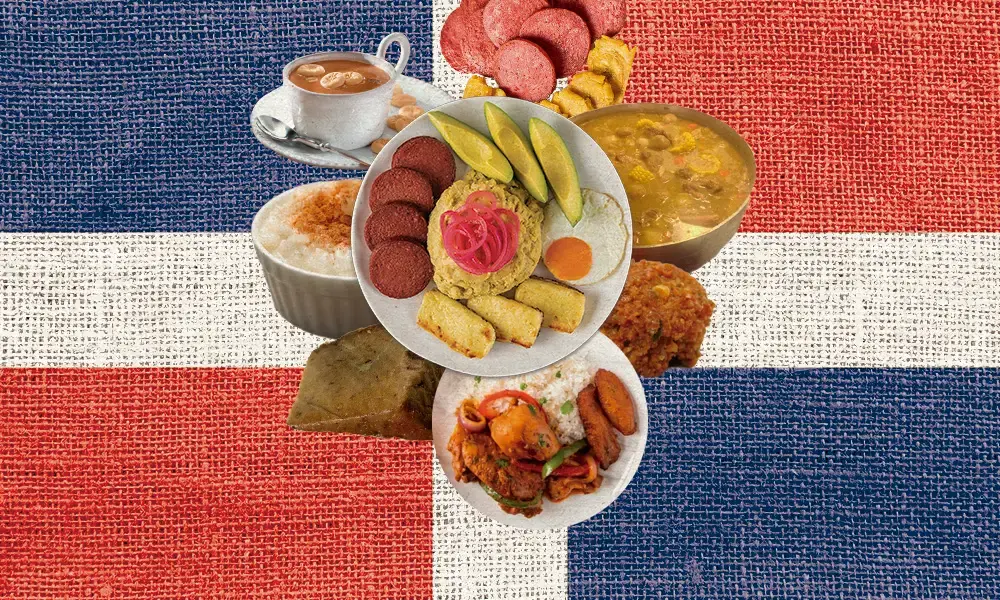
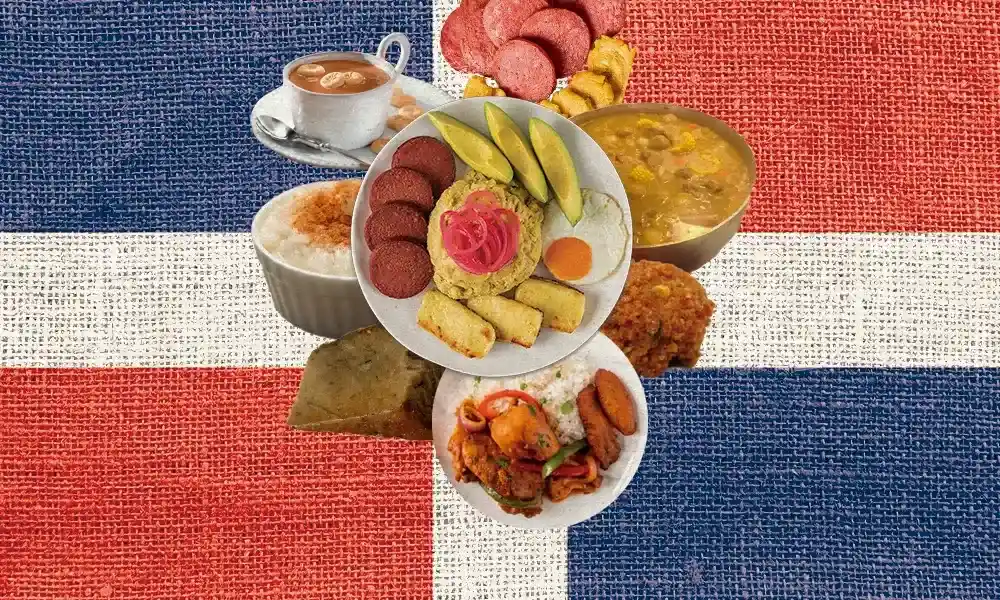
audit updates

diff --git a/final/index.html b/final/index.html
@@ -63,7 +63,7 @@
                 <img src="images/final-home-hero-small.webp" alt="Dominican Gastronomy Hero">
             </picture>
             <div class="hero-text">
-                <h2>Welcome to Dominican Gastronomy</h2>
+                <h1>Welcome to Dominican Gastronomy</h1>
                 <p>Explore the roots, flavors, and identity of Dominican cuisine.</p>
                 <button class="cta">Explore More</button>
                 <!-- https://cesarperez117.github.io/wdd231/final/dishes.html -->
@@ -142,9 +142,6 @@
             <p>Last Modified: <span id="lastModified"></span></p>
         </div>
     </footer>
-
-
-    <script src="scripts/final.js" defer></script>
+<script src="scripts/final.js" defer></script>
 </body>
-
 </html>

diff --git a/final/finder.html b/final/finder.html
@@ -13,7 +13,7 @@
     <link rel="icon" type="image/png" sizes="16x16" href="images/favicon-small.png">
 
     <!-- OG Meta -->
-    <meta property="og:title" content="Dominican Gastronomy | Restaurant Finder">
+    <meta property="og:title" content="Dominican Gastronomy | Finder">
     <meta property="og:description"
         content="Find Dominican restaurants near you by dish, location, and dining style. Explore authentic Dominican cuisine with our interactive finder.">
     <meta property="og:image" content="https://cesarperez117.github.io/wdd231/final/images/gastronomy-logo.webp">

diff --git a/final/styles/final-small.css b/final/styles/final-small.css
@@ -202,11 +202,6 @@ section h2 {
     text-align: center;
 }
 
-.root img {
-    width: 80px;
-    height: auto;
-}
-
 .roots-grid h3 {
     color: var(--color-accent);
     margin: 8px 0 6px;
